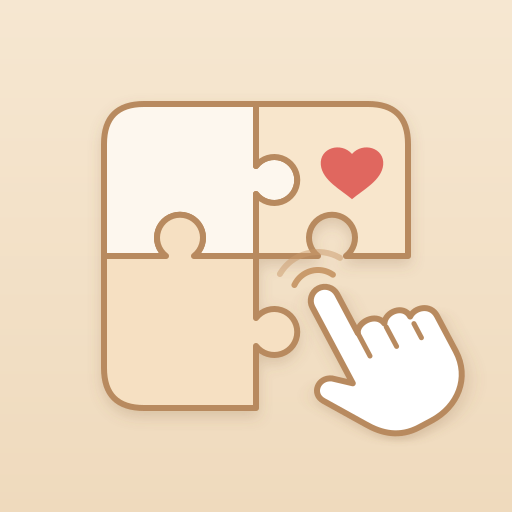
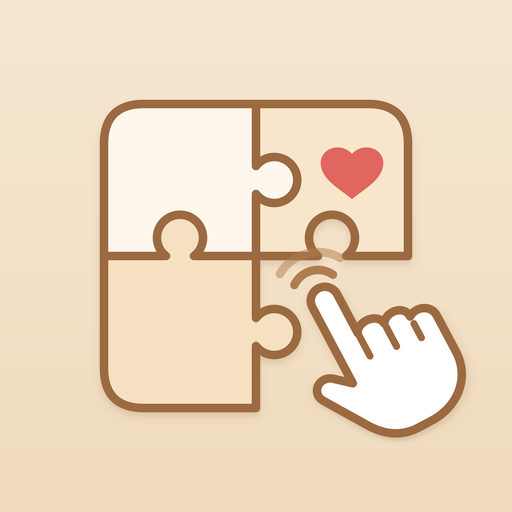
앱 아이콘 초고해상도(4096 슈퍼샘플링)·선 굵게, 1024/2048·maskable 1024·안드로이드 mipmap

Changed region(s): [[0.1875, 0.1875, 0.9375, 0.875], [0.7188, 0.6875, 0.75, 0.7188]]

diff --git a/sw.js b/sw.js
@@ -1,6 +1,6 @@
 // 톡톡 오프라인 실행 (버전 202611041840)
-const CACHE = 'ttokttok-202611111725b';
-const SHELL = ["./","./index.html","./app-c75c4667.js?v=9","./app-21865120.css","./theme.css?v=8","./pwa.js?v=2","./kakao.js?v=1","./back.js?v=2","./push.js?v=4","./mood.js?v=10","./ptr.js?v=4","./rooms.js?v=33","./account.js?v=1","./anim.js?v=10","./easy.js?v=1","./puzzle.js?v=5","./manifest.webmanifest?v=9","./icon-192.png?v=9","./icon-512.png?v=9","./icon-180.png?v=9","./favicon.svg?v=10","./art/g01.webp?v=2","./art/g02.webp?v=2","./art/g03.webp?v=2","./art/g04.webp?v=2","./art/g05.webp?v=2","./art/g06.webp?v=2","./art/g07.webp?v=2","./art/g08.webp?v=2","./art/g09.webp?v=2","./art/g10.webp?v=2","./art/g11.webp?v=2","./art/g12.webp?v=2","./privacy.html"];
+const CACHE = 'ttokttok-202611111831b';
+const SHELL = ["./","./index.html","./app-c75c4667.js?v=9","./app-21865120.css","./theme.css?v=8","./pwa.js?v=2","./kakao.js?v=1","./back.js?v=2","./push.js?v=4","./mood.js?v=10","./ptr.js?v=4","./rooms.js?v=33","./account.js?v=1","./anim.js?v=10","./easy.js?v=1","./puzzle.js?v=5","./manifest.webmanifest?v=10","./icon-192.png?v=10","./icon-512.png?v=10","./icon-180.png?v=10","./favicon.svg?v=11","./art/g01.webp?v=2","./art/g02.webp?v=2","./art/g03.webp?v=2","./art/g04.webp?v=2","./art/g05.webp?v=2","./art/g06.webp?v=2","./art/g07.webp?v=2","./art/g08.webp?v=2","./art/g09.webp?v=2","./art/g10.webp?v=2","./art/g11.webp?v=2","./art/g12.webp?v=2","./privacy.html"];
 self.addEventListener('install', e => { e.waitUntil(caches.open(CACHE).then(c => c.addAll(SHELL.map(u => new Request(u, { cache: 'reload' })))).then(() => self.skipWaiting())); });
 self.addEventListener('activate', e => { e.waitUntil(caches.keys().then(ks => Promise.all(ks.filter(k => k !== CACHE).map(k => caches.delete(k)))).then(() => self.clients.claim())); });
 self.addEventListener('fetch', e => {

diff --git a/index.html b/index.html
@@ -5,9 +5,9 @@
 <meta name="viewport" content="width=device-width, initial-scale=1, viewport-fit=cover, user-scalable=no">
 <meta name="theme-color" content="#14284b">
 <title>톡톡</title>
-<link rel="icon" type="image/svg+xml" href="./favicon.svg?v=10">
-<link rel="manifest" href="./manifest.webmanifest?v=9">
-<link rel="apple-touch-icon" href="./icon-180.png?v=9">
+<link rel="icon" type="image/svg+xml" href="./favicon.svg?v=11">
+<link rel="manifest" href="./manifest.webmanifest?v=10">
+<link rel="apple-touch-icon" href="./icon-180.png?v=10">
 <meta name="apple-mobile-web-app-capable" content="yes">
 <meta name="mobile-web-app-capable" content="yes">
 <meta name="apple-mobile-web-app-status-bar-style" content="default">

diff --git a/tools/icons.py b/tools/icons.py
@@ -1,0 +1,38 @@
+#!/usr/bin/env python3
+"""icon.svg 하나로 모든 아이콘 PNG를 초고해상도로 다시 만든다.
+4096px로 그린 뒤 LANCZOS로 줄여서(슈퍼샘플링) 작은 크기도 선명하게.
+사용: python3 tools/icons.py  (rsvg-convert, Pillow 필요)"""
+import subprocess, re, os, io
+from PIL import Image
+R = os.path.dirname(os.path.dirname(os.path.abspath(__file__)))
+SRC = open(os.path.join(R, 'icon.svg'), encoding='utf-8').read()
+BIG = 4096
+
+def render(svg):
+    png = subprocess.run(['rsvg-convert', '-w', str(BIG), '-h', str(BIG)],
+                         input=svg.encode(), capture_output=True, check=True).stdout
+    return Image.open(io.BytesIO(png)).convert('RGB')
+
+def maskable(svg, k=0.8):
+    # 배경 rect 뒤의 그림만 가운데 기준 k배(안전 영역 80%)
+    head, rest = svg.split('<rect width="512" height="512" fill="url(#bg)"/>', 1)
+    body = rest.rsplit('</svg>', 1)[0]
+    t = 256 * (1 - k)
+    return (head + '<rect width="512" height="512" fill="url(#bg)"/>'
+            f'<g transform="translate({t} {t}) scale({k})">' + body + '</g></svg>')
+
+full, mask = render(SRC), render(maskable(SRC))
+def out(img, size, path):
+    p = os.path.join(R, path); os.makedirs(os.path.dirname(p) or '.', exist_ok=True)
+    img.resize((size, size), Image.LANCZOS).save(p, optimize=True)
+
+for s in (32, 180, 192, 512, 1024): out(full, s, f'icon-{s}.png')
+out(full, 2048, 'icon-2048.png')
+out(mask, 512, 'icon-maskable-512.png'); out(mask, 1024, 'icon-maskable-1024.png')
+out(full, 512, 'android/store_icon.png')
+res = 'android/app/src/main/res'
+for d, s in dict(mdpi=48, hdpi=72, xhdpi=96, xxhdpi=144, xxxhdpi=192).items():
+    out(full, s, f'{res}/mipmap-{d}/ic_launcher.png')
+for d, s in dict(mdpi=82, hdpi=123, xhdpi=164, xxhdpi=246, xxxhdpi=328).items():
+    out(mask, s, f'{res}/mipmap-{d}/ic_maskable.png')
+print('ok')

diff --git a/CLAUDE.md b/CLAUDE.md
@@ -57,7 +57,7 @@
 - 양방향(부모만 확인받는 구조 아님), 대상은 '가까운 사람'(가족·친구·크루). 하트 주고받기는 하지 않음.
 - 11/11 방향 추가: 동네방(행정동 단위, GPS 없이 동 직접 선택, 끊김 알림은 방장=통장·복지관 담당자에게만, 이웃엔 집계만). 퍼즐 30조각 고정(초대 동기). 기획: 프로젝트 문서 claude/똑똑_동네방_기획_v1.md. 아직 구현 안 함.
 - 컨디션: 5가지(아주 좋음·좋음·그냥·별로·힘들어요, 11/11), 노크 후 큰 버튼, 목록엔 글자로만(얼굴·7일 점 없음), 주간 알림으로 위로·안부.
-- 아이콘: 11/11 퍼즐+하트+손 시안(7번)을 베이지·세이지로 고르기로 함(웹앱 아이콘·favicon 교체 완료 11/11, v=9: 같은 디자인을 벡터 icon.svg로 다시 그려 고해상도 PNG 생성, 수정은 icon.svg에서. 풍년이 그림 g01~12·blink는 AI 업스케일(Real-ESRGAN anime) 2배, 11/11. 안드로이드 TWA 아이콘은 아직). 화면 색은 theme.css v2(베이지·세이지, 배치·기능 그대로).
+- 아이콘: 11/11 퍼즐+하트+손 시안(7번)을 베이지·세이지로 고르기로 함(웹앱 아이콘·favicon 교체 완료 11/11, v=10(11/11): 선 굵게·진하게·그림자 줄여 선명도 개선, 4096px 슈퍼샘플링으로 1024·2048·maskable 1024·안드로이드 mipmap까지 생성. 수정은 icon.svg → `python3 tools/icons.py`. 풍년이 그림 g01~12·blink는 AI 업스케일(Real-ESRGAN anime) 2배, 11/11. 안드로이드 TWA mipmap도 교체(앱 빌드는 다시 해야 반영)). 화면 색은 theme.css v2(베이지·세이지, 배치·기능 그대로).
 - 플러스 월 2,900원 · 1년 29,000원(11/10 변경), 단체 1인 월 1,500원(베타 무료, 결제는 '준비 중'). 결제자만: 그림 미리보기·하루 3번·방 5개·소리·배지. 노크방 모두(곧): 문자 알림·형제 분담·주간 리포트·1년권 선물. 기본 안부 알림은 언제나 무료.
 - 그림 단품 판매 없음. 황금 칸 그림당 1칸, 당첨은 모두에게 공개.
 - 실명: 입장할 때 별명과 함께 선택 입력, 방장에게만 보임.
